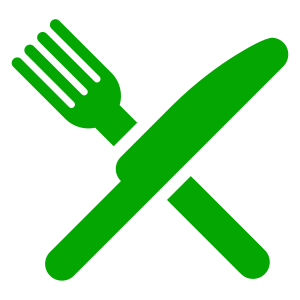
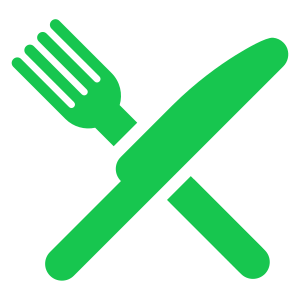
feat: improve skills section

Changed region(s): [[0.15, 0.12, 0.96, 0.96], [0.03, 0.06, 0.45, 0.48], [0.54, 0.57, 0.9, 0.93]]

diff --git a/src/styles/HeroSection.css b/src/styles/HeroSection.css
@@ -3,35 +3,17 @@
     align-items: center;
 }
 
-.section .col{
-    width: 50%;
+.hero .typography{
+    padding-right: 2em;
 }
 
-.section.hero .typography{
-    padding-right: 1em;
-}
-
-.section .title{
-    color: var(--text-color);
-    font-size: 3em;
-    margin-bottom: .25em;
-}
-
-.section .info{
-    color: var(--text-light);
-    font-size: 1em;
-    letter-spacing: 1px;
-    line-height: 1.3;
-    margin-bottom: 1em;
-}
-
-.section.hero .gallery{
+.hero .gallery{
     display: grid;
     grid-template-columns: repeat(3, 1fr);
-    gap: 1vw;
+    gap: 1.5vw;
 }
 
-.section.hero .gallery .custom-image{
+.hero .gallery .custom-image{
     border-radius: 3px;
     overflow: hidden;
     transform: scale(0.1);
@@ -64,24 +46,6 @@
     }
 }
 
-.btn{
-    border: none;
-    outline: none;
-    background-color: var(--primary-color);
-    color: #fff;
-    padding: 0.75em 1em;
-    text-transform: uppercase;
-    font-size: 1.1em;
-    font-weight: bold;
-    letter-spacing: 1px;
-    border-radius: 3px;
-    box-shadow: 0 3px 6px var(--shadow-color);
-    cursor: pointer;
-    &:hover{
-        box-shadow: 0 1px 3px var(--shadow-color);
-    }
-}
-
 @keyframes popOut{
     from{
         transform: scale(0);
@@ -90,13 +54,5 @@
     to{
         transform: scale(1);
         opacity: 1;
-    }
-}
-
-@media screen and (max-width: 768px) {
-    .section.hero .gallery{
-        display: grid;
-        grid-template-columns: repeat(3, 1fr);
-        gap: 1vw;
     }
 }

diff --git a/src/styles/ImproveSkills.css b/src/styles/ImproveSkills.css
@@ -1,0 +1,54 @@
+.improve-skills .img img{
+    width: 100%;
+}
+.improve-skills .typography{
+    padding-left: 2em;
+}
+
+.improve-skills .skill-item{
+    border-left: 0.2em solid var(--primary-color);
+    margin-bottom: 0.8em;
+    padding: 0.1em 0 0.1em 0.5em;
+    color: var(--text-light);
+    font-size: 1em;
+    font-weight: bold;
+    transform: translateX(100%);
+    opacity: 0;
+    animation: 0.5s slideInRight forwards;
+    &:nth-child(1){
+        animation-delay: 0.1s;
+    }
+    &:nth-child(2){
+        animation-delay: 0.2s;
+    }
+    &:nth-child(3){
+        animation-delay: 0.3s;
+    }
+    &:nth-child(4){
+        animation-delay: 0.4s;
+    }
+    &:nth-child(5){
+        animation-delay: 0.5s;
+    }
+    &:nth-child(6){
+        animation-delay: 0.6s;
+    }
+    &:nth-child(7){
+        animation-delay: 0.7s;
+    }
+}
+
+.improve-skills .btn{
+    margin-top: 0.75em;
+}
+
+@keyframes slideInRight {
+    from{
+        transform: translateX(100%);
+        opacity: 0;
+    }
+    to{
+        transform: translateX(0);
+        opacity: 1;
+    }
+}

diff --git a/src/styles/index.css b/src/styles/index.css
@@ -4,7 +4,7 @@
 :root {
   --background-color: #fff;
   --shadow-color: rgba(0,0,0,0.2);
-  --primary-color: #04A601;
+  --primary-color: #17C64F;
   --text-color: #0A0A0A;
   --text-light: #575757;
   --font-size: 16px;
@@ -42,5 +42,48 @@ img{
   
 }
 .container{
-  padding-inline: 15vw;
+  padding-inline: 12vw;
+}
+
+.section{
+  display: flex;
+  align-items: center;
+  margin-bottom: 4vw;
+}
+
+.section .title{
+  color: var(--text-color);
+  font-size: 2.5em;
+  margin-bottom: .25em;
+}
+
+.section .info{
+  color: var(--text-light);
+  font-size: 1em;
+  letter-spacing: 1px;
+  line-height: 1.3;
+  margin-bottom: 1em;
+}
+
+.section .col{
+  width: 50%;
+}
+
+
+.btn{
+  border: none;
+  outline: none;
+  background-color: var(--primary-color);
+  color: #fff;
+  padding: 0.75em 1em;
+  text-transform: uppercase;
+  font-size: 1.1em;
+  font-weight: bold;
+  letter-spacing: 1px;
+  border-radius: 3px;
+  box-shadow: 0 3px 6px var(--shadow-color);
+  cursor: pointer;
+  &:hover{
+      box-shadow: 0 1px 3px var(--shadow-color);
+  }
 }

diff --git a/src/components/ImproveSkills.jsx b/src/components/ImproveSkills.jsx
@@ -1,0 +1,30 @@
+import React from 'react'
+
+import '../styles/ImproveSkills.css'
+
+const ImproveSkills = () => {
+    const list = [
+        "Learn incredible recipes",
+        "Chef-curated dishes crafted ",
+        "Write you own recipes",
+        "Exploration of international cuisines",
+        "Interactive cooking tutorials",
+        "In-depth articles on food trends"
+    ]
+    return (
+        <div className='section improve-skills'>
+            <div className='col img'>
+                <img src='/img/gallery/img_6.jpg' alt='improve-skills' />
+            </div>
+            <div className='col typography'>
+                <h1 className='title'>Improve Your Culinary Skills</h1>
+				{ list.map((item, index) => (
+					<p className='skill-item' key={index}>{item}</p>
+				))}
+                <button className='btn'>Signup Now</button>
+            </div>
+        </div>
+    )
+}
+
+export default ImproveSkills

diff --git a/src/App.jsx b/src/App.jsx
@@ -2,6 +2,7 @@ import { useState } from 'react'
 
 import Navbar from './components/Navbar'
 import HeroSection from './components/HeroSection'
+import ImproveSkills from './components/ImproveSkills'
 
 function App() {
 
@@ -10,6 +11,7 @@ function App() {
       <Navbar />
       <div className='container main'>
         <HeroSection />
+        <ImproveSkills />
       </div>
     </div>
   )

diff --git a/src/components/HeroSection.jsx b/src/components/HeroSection.jsx
@@ -8,7 +8,7 @@ import CustomImage from './CustomImage'
 const HeroSection = () => {
 	const images = [
 		"/img/gallery/img_1.jpg",
-        "/img/gallery/img_5.jpg",
+        "/img/gallery/img_23.jpg",
 		"/img/gallery/img_9.jpg",
         "/img/gallery/img_11.jpg",
 		"/img/gallery/img_7.jpg",
